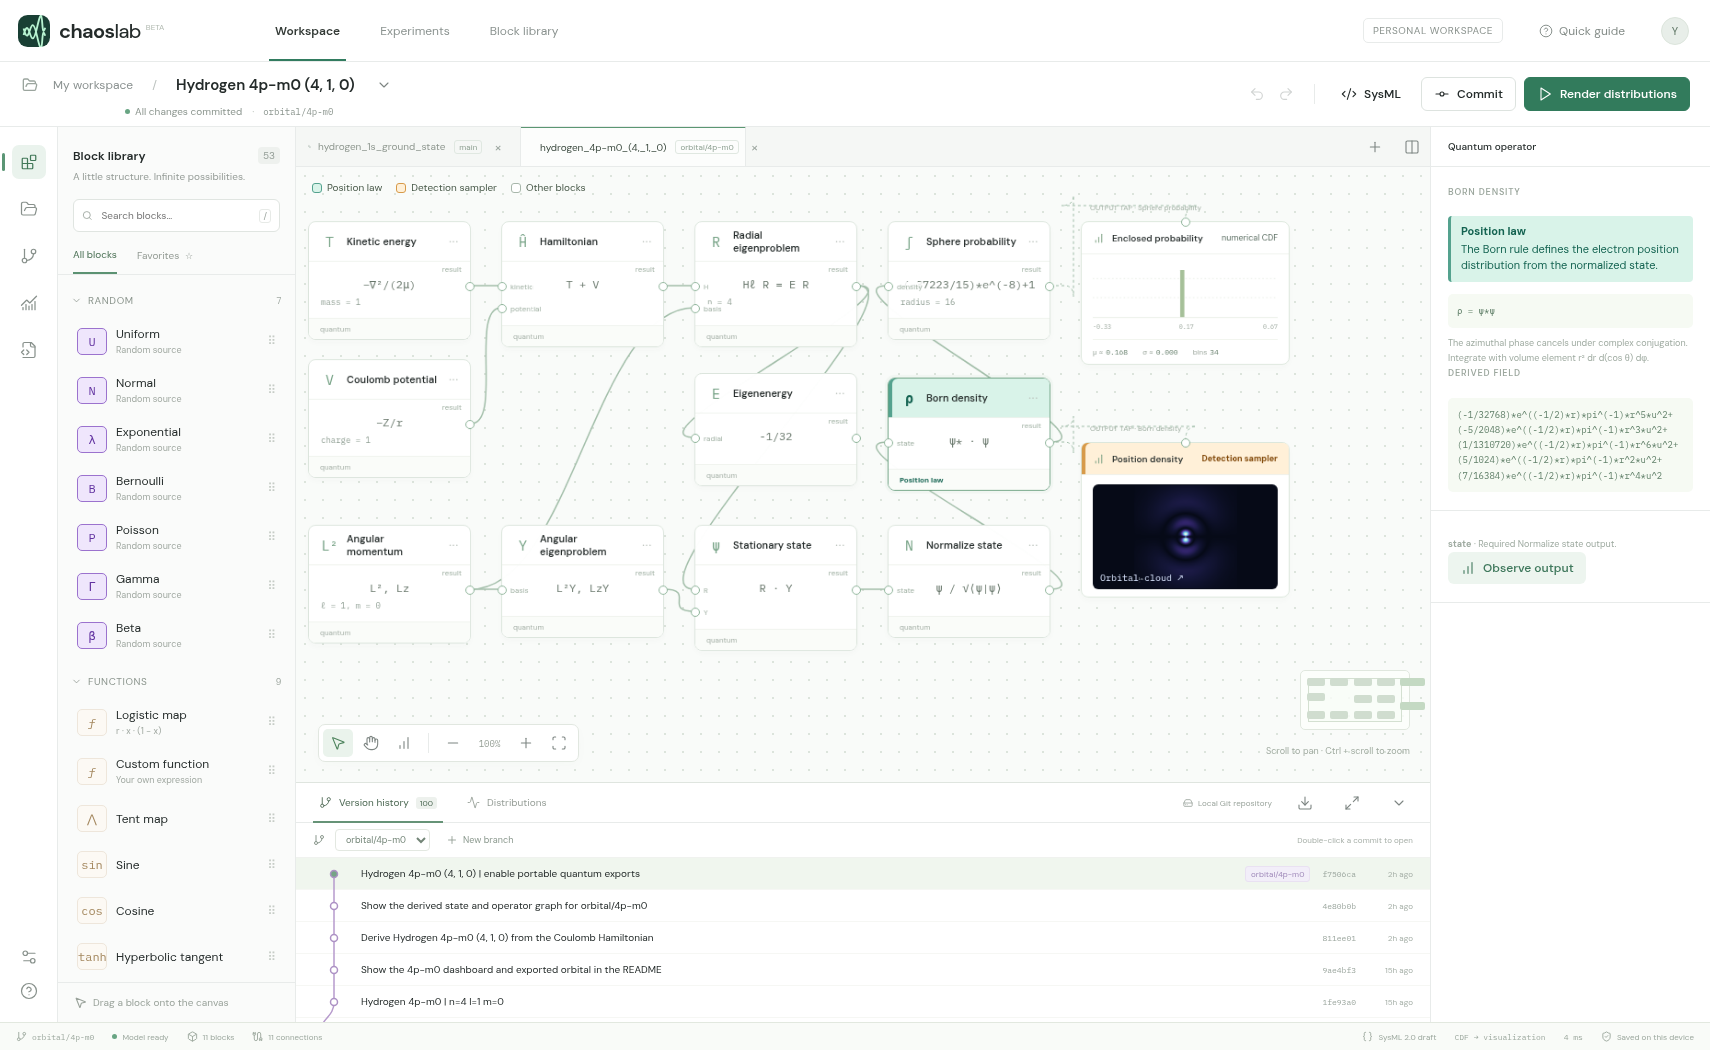
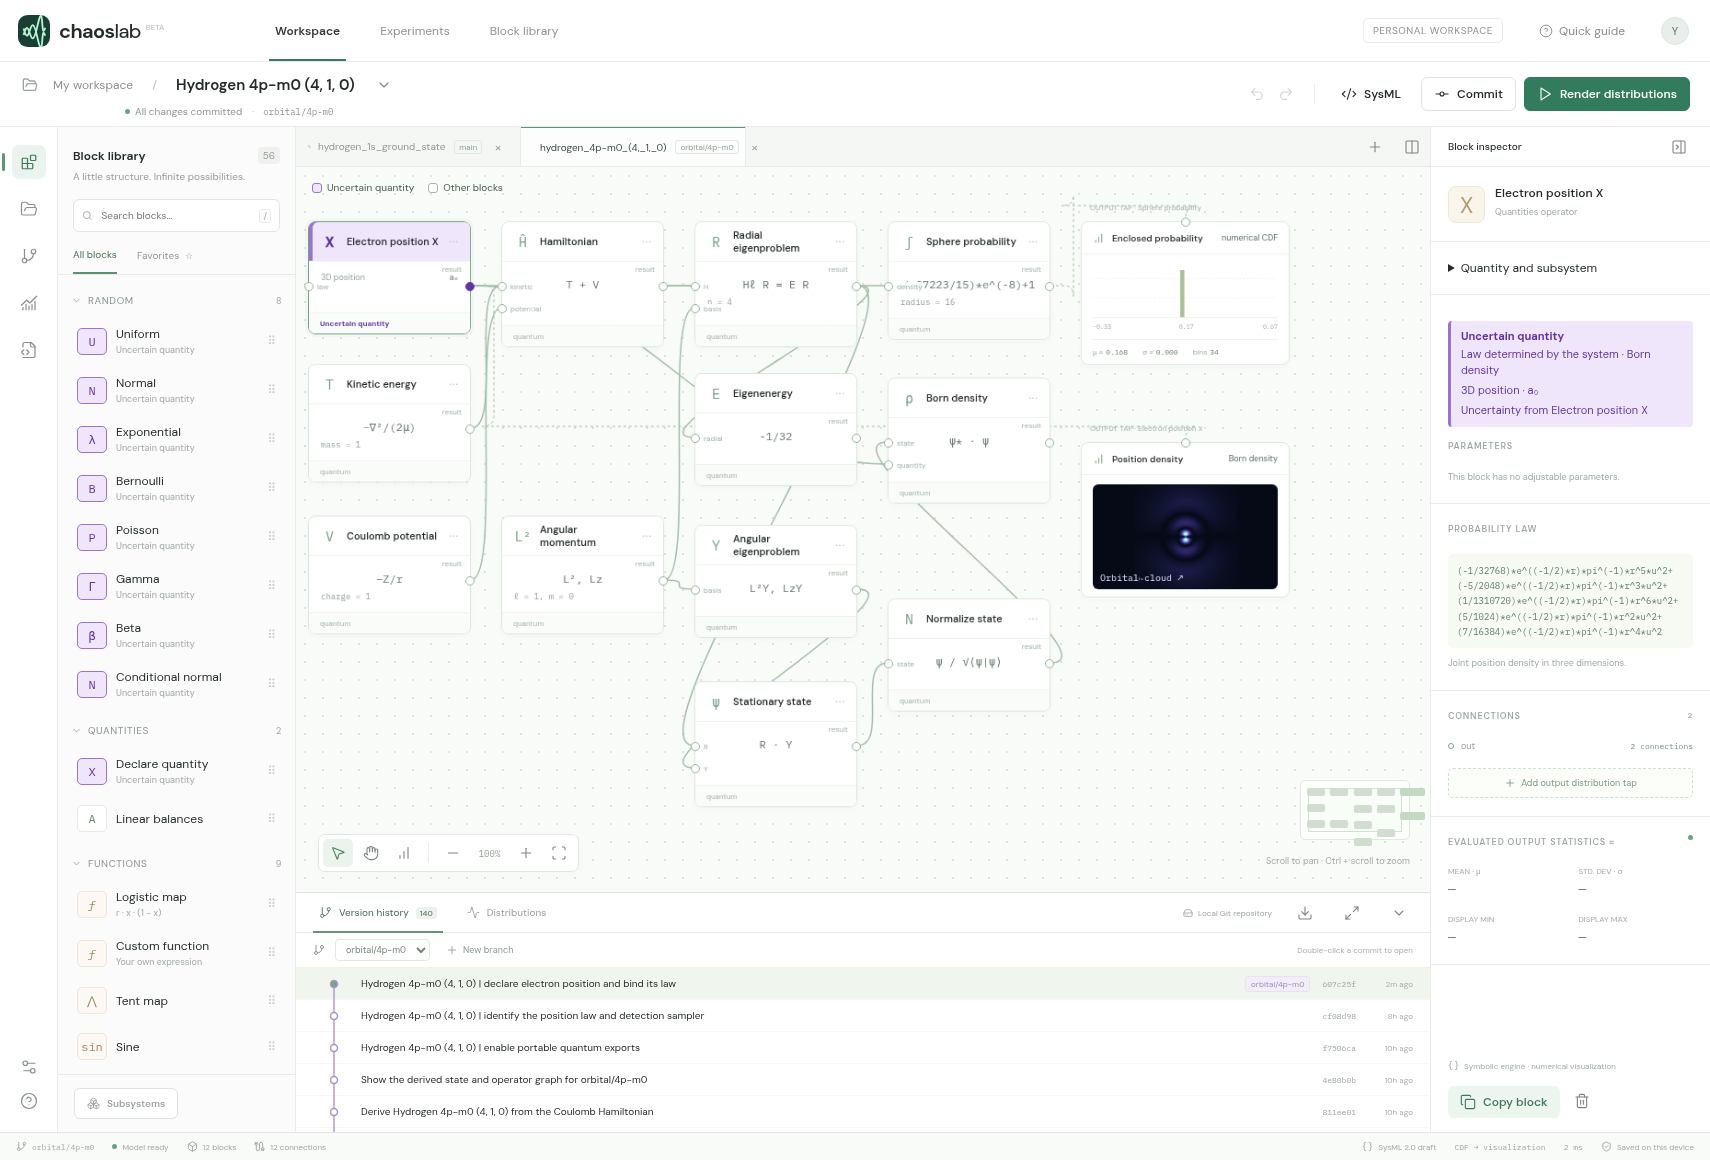
Show the position declaration and its law provider for orbital/4p-m0

diff --git a/studio.py b/studio.py
@@ -10,7 +10,7 @@ import tempfile
 import webbrowser
 
 ROOT = Path(__file__).resolve().parent
-STUDIO_REV = "5cbb600c6ee5baa24d159ddc6c974d68eb68f653"
+STUDIO_REV = "515ba96842af71b90f41019a508548a96e802665"
 STUDIO_REPO = "https://github.com/wa200508/chaos_lab.git"
 
 

diff --git a/README.md b/README.md
@@ -6,7 +6,7 @@ Open **Version history** in Chaos Lab to explore the 20 hydrogen designs in this
 
 The connected Hamiltonian and eigenstate solvers give $E=-1/32$ Hartree for this state.
 
-The purple **Electron position X** block declares the three-dimensional quantity in Bohr radii. Open its inspector to see **Born density** as its law provider. The sphere measurement and spatial tap both observe X. Projected detections draw from the final law; the central slice evaluates the density directly.
+The purple **Electron position X** block declares the three-dimensional quantity in Bohr radii. Open its inspector to see **Born density** as its law provider. The sphere measurement and spatial tap both observe X. Projected detections draw from the final law. The central slice evaluates the density directly.
 
 ![Chaos Lab dashboard with the 4p model, m = 0, open in version history](dashboard.png)
 
